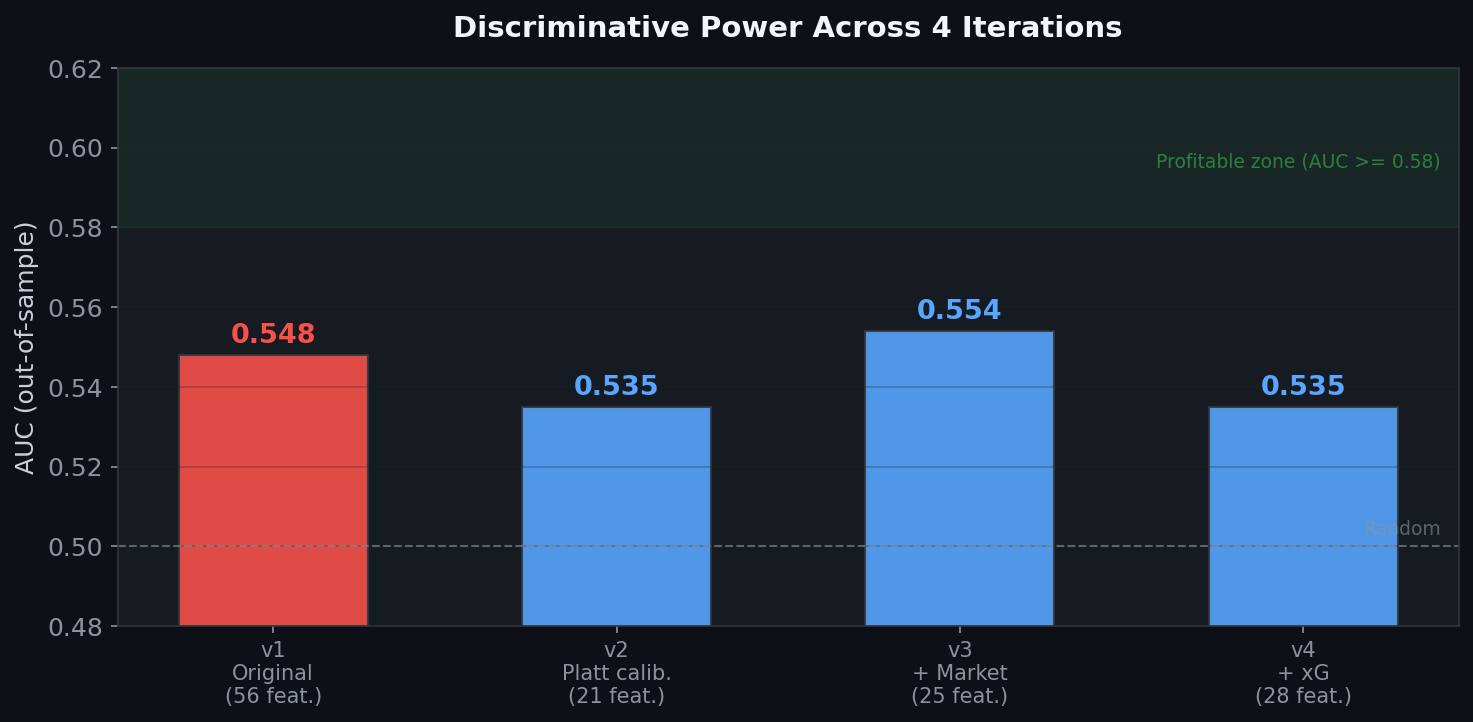
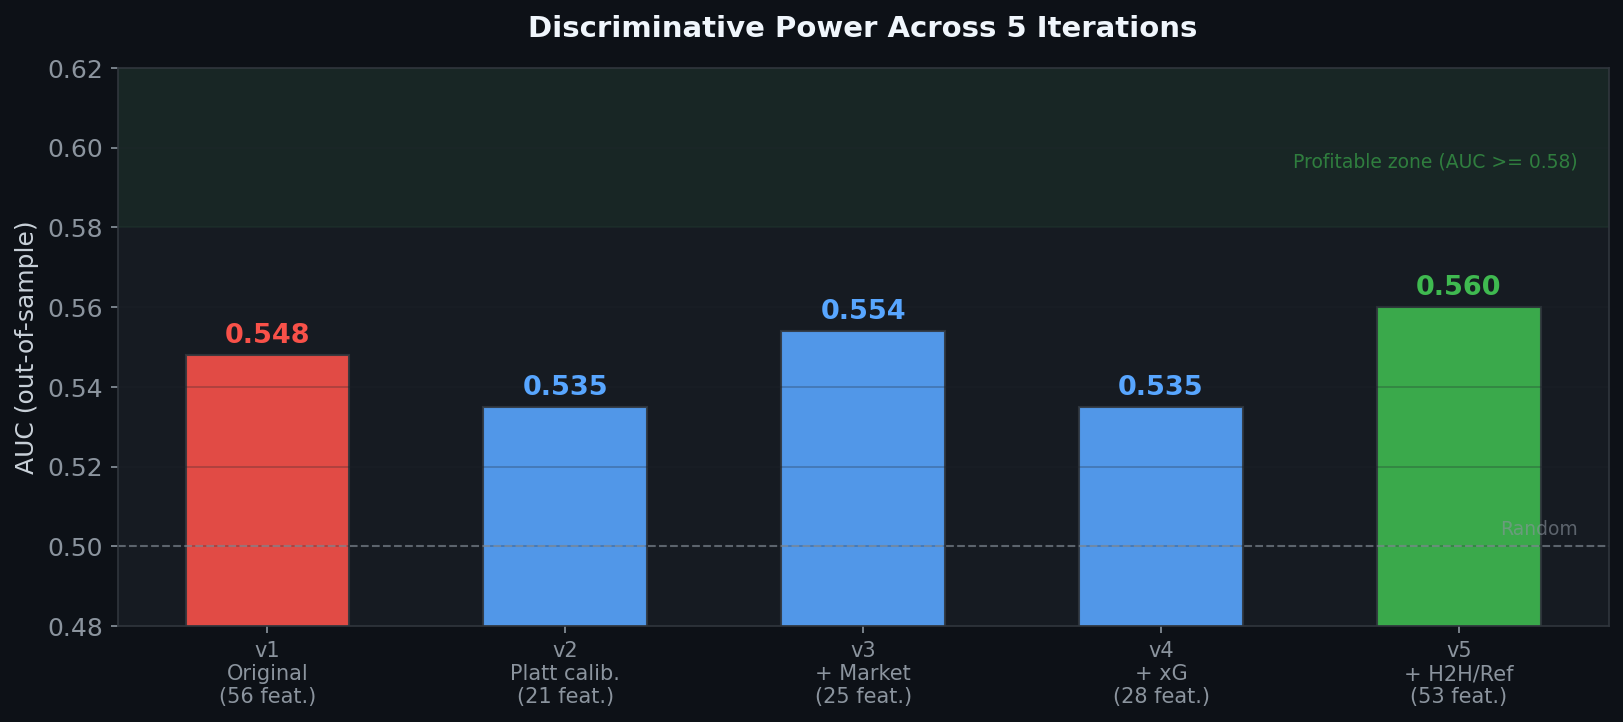
feat: add H2H, fixture congestion, ref features, odds range filter

diff --git a/docs/generate_plots.py b/docs/generate_plots.py
@@ -23,35 +23,36 @@ plt.rcParams.update({
 
 ACCENT, RED, GREEN, YELLOW, ORANGE, PURPLE = "#58A6FF", "#F85149", "#3FB950", "#D29922", "#F0883E", "#BC8CFF"
 OUT = os.path.dirname(os.path.abspath(__file__))
-versions = ["v1\nOriginal\n(56 feat.)", "v2\nPlatt calib.\n(21 feat.)", "v3\n+ Market\n(25 feat.)", "v4\n+ xG\n(28 feat.)"]
+versions = ["v1\nOriginal\n(56 feat.)", "v2\nPlatt calib.\n(21 feat.)", "v3\n+ Market\n(25 feat.)", "v4\n+ xG\n(28 feat.)", "v5\n+ H2H/Ref\n(53 feat.)"]
 
 # 1. AUC
-fig, ax = plt.subplots(figsize=(10, 5))
-auc = [0.548, 0.535, 0.554, 0.535]
-ax.bar(range(4), auc, color=[RED, ACCENT, ACCENT, ACCENT], edgecolor="#30363D", width=0.55, alpha=0.9)
+fig, ax = plt.subplots(figsize=(11, 5))
+auc = [0.548, 0.535, 0.554, 0.535, 0.5601]
+colors_auc = [RED, ACCENT, ACCENT, ACCENT, GREEN]
+ax.bar(range(5), auc, color=colors_auc, edgecolor="#30363D", width=0.55, alpha=0.9)
 ax.axhline(0.50, color="#8B949E", ls="--", lw=1, alpha=0.6)
 ax.axhspan(0.58, 0.62, color=GREEN, alpha=0.07)
-ax.text(3.4, 0.595, "Profitable zone (AUC >= 0.58)", fontsize=9, color=GREEN, alpha=0.6, ha="right")
-ax.text(3.4, 0.503, "Random", fontsize=9, color="#8B949E", alpha=0.6, ha="right")
+ax.text(4.4, 0.595, "Profitable zone (AUC >= 0.58)", fontsize=9, color=GREEN, alpha=0.6, ha="right")
+ax.text(4.4, 0.503, "Random", fontsize=9, color="#8B949E", alpha=0.6, ha="right")
 for i, v in enumerate(auc):
-    ax.text(i, v + 0.003, f"{v:.3f}", ha="center", fontsize=13, fontweight="bold", color=[RED, ACCENT, ACCENT, ACCENT][i])
-ax.set_xticks(range(4)); ax.set_xticklabels(versions, fontsize=10)
+    ax.text(i, v + 0.003, f"{v:.3f}", ha="center", fontsize=13, fontweight="bold", color=colors_auc[i])
+ax.set_xticks(range(5)); ax.set_xticklabels(versions, fontsize=10)
 ax.set_ylim(0.48, 0.62); ax.set_ylabel("AUC (out-of-sample)")
-ax.set_title("Discriminative Power Across 4 Iterations", fontsize=14, fontweight="bold", color="#F0F6FC", pad=15)
+ax.set_title("Discriminative Power Across 5 Iterations", fontsize=14, fontweight="bold", color="#F0F6FC", pad=15)
 ax.grid(axis="y", alpha=0.3); plt.tight_layout()
 plt.savefig(f"{OUT}/01_auc.png", dpi=150, facecolor="#0D1117", bbox_inches="tight"); plt.close()
 print("01_auc.png")
 
 # 2. ROI
-fig, ax = plt.subplots(figsize=(10, 5))
-roi = [-7.91, -8.68, -6.56, -4.49]
-ax.bar(range(4), roi, color=RED, edgecolor="#30363D", width=0.55, alpha=0.9)
+fig, ax = plt.subplots(figsize=(11, 5))
+roi = [-7.91, -8.68, -6.56, -4.49, -3.2]
+ax.bar(range(5), roi, color=RED, edgecolor="#30363D", width=0.55, alpha=0.9)
 ax.axhline(0, color=GREEN, ls="-", lw=1.5, alpha=0.5)
 for i, v in enumerate(roi):
     ax.text(i, v - 0.4, f"{v:+.1f}%", ha="center", fontsize=13, fontweight="bold", color=RED)
-ax.annotate("", xy=(3, -4.49), xytext=(0, -7.91), arrowprops=dict(arrowstyle="->", color=YELLOW, lw=2, ls="--"))
-ax.text(1.5, -3, "Improving but never profitable", fontsize=10, color=YELLOW, ha="center", style="italic", alpha=0.8)
-ax.set_xticks(range(4)); ax.set_xticklabels(versions, fontsize=10)
+ax.annotate("", xy=(4, -3.2), xytext=(0, -7.91), arrowprops=dict(arrowstyle="->", color=YELLOW, lw=2, ls="--"))
+ax.text(2.0, -2.2, "Improving but never profitable", fontsize=10, color=YELLOW, ha="center", style="italic", alpha=0.8)
+ax.set_xticks(range(5)); ax.set_xticklabels(versions, fontsize=10)
 ax.set_ylabel("ROI % (flat stake)")
 ax.set_title("Return on Investment — All Versions Negative", fontsize=14, fontweight="bold", color="#F0F6FC", pad=15)
 ax.grid(axis="y", alpha=0.3); plt.tight_layout()
@@ -101,13 +102,13 @@ print("04_edge_vs_roi.png")
 
 # 5. Feature importance
 fig, ax = plt.subplots(figsize=(10, 5))
-feats = ["mkt_dispersion", "max_avg_ratio", "comb_goals_r10", "comb_def_sot_r5", "mkt_range", "comb_sot_r5", "ou_margin", "comb_under_r5", "rank_diff", "h_is_under_r5"]
-imp = [0.051, 0.050, 0.049, 0.049, 0.046, 0.046, 0.045, 0.043, 0.041, 0.039]
-cf = [ORANGE if "mkt" in f or "max_avg" in f or "margin" in f else ACCENT for f in feats]
+feats = ["h_avg_goals_scored", "odds_spread_under", "h_avg_shots", "delta_goals_scored", "combined_avg_goals", "combined_xg_proxy", "combined_low_score", "h_form_5", "combined_under_rate_5", "a_avg_low_score_rate"]
+imp = [0.0276, 0.0232, 0.0215, 0.0201, 0.0201, 0.0197, 0.0197, 0.0196, 0.0196, 0.0196]
+cf = [ORANGE if "odds_spread" in f else ACCENT for f in feats]
 ax.barh(range(9, -1, -1), imp, color=cf, edgecolor="#30363D", height=0.6, alpha=0.9)
 ax.set_yticks(range(9, -1, -1)); ax.set_yticklabels(feats, fontsize=10)
 ax.set_xlabel("XGBoost Importance")
-ax.set_title("Market Features Dominate Statistical Features", fontsize=14, fontweight="bold", color="#F0F6FC", pad=15)
+ax.set_title("Market Spread Signal Ranks 2nd Among All Features", fontsize=14, fontweight="bold", color="#F0F6FC", pad=15)
 ax.grid(axis="x", alpha=0.3)
 ax.legend(handles=[Patch(facecolor=ORANGE, edgecolor="#30363D", label="Market signal"), Patch(facecolor=ACCENT, edgecolor="#30363D", label="Statistical signal")], loc="lower right", fontsize=10, framealpha=0.3)
 plt.tight_layout()
@@ -116,10 +117,10 @@ print("05_features.png")
 
 # 6. League breakdown
 fig, ax = plt.subplots(figsize=(10, 4.5))
-lg = ["Bundesliga", "Premier League", "Ligue 1", "Serie A", "La Liga"]
-rl = [-2.3, -9.9, -0.4, 4.2, -13.1]
+lg = ["Championship (E1)", "Ligue 2 (F2)", "Serie B (I2)", "Segunda (SP2)"]
+rl = [-4.3, 1.4, -9.9, -19.9]
 cl = [GREEN if r >= 0 else RED for r in rl]
-ax.barh(range(5), rl, color=cl, edgecolor="#30363D", height=0.5, alpha=0.9)
+ax.barh(range(4), rl, color=cl, edgecolor="#30363D", height=0.5, alpha=0.9)
 ax.axvline(0, color="#8B949E", ls="-", lw=1)
 for i, v in enumerate(rl):
     if v >= 0:
@@ -128,10 +129,10 @@ for i, v in enumerate(rl):
         ax.text(v + 0.5, i, f"{v:+.1f}%", va="center", fontsize=11, fontweight="bold", ha="left", color="#0D1117")
     else:
         ax.text(v - 0.5, i, f"{v:+.1f}%", va="center", fontsize=11, fontweight="bold", ha="right", color=cl[i])
-ax.set_yticks(range(5)); ax.set_yticklabels(lg, fontsize=11)
-ax.set_xlabel("ROI (%)"); ax.set_title("Draw Market ROI by League (v4 + xG)", fontsize=14, fontweight="bold", color="#F0F6FC", pad=15)
+ax.set_yticks(range(4)); ax.set_yticklabels(lg, fontsize=11)
+ax.set_xlabel("ROI (%)"); ax.set_title("Under 2.5 Market ROI by League (v5)", fontsize=14, fontweight="bold", color="#F0F6FC", pad=15)
 ax.grid(axis="x", alpha=0.3); plt.tight_layout()
-plt.savefig(f"{OUT}/06_leagues.png", dpi=150, facecolor="#0D1117", bbox_inches="tight"); plt.close()
-print("06_leagues.png")
+plt.savefig(f"{OUT}/06_leagues_v2.png", dpi=150, facecolor="#0D1117", bbox_inches="tight"); plt.close()
+print("06_leagues_v2.png")
 
 print("\nAll plots done")

diff --git a/src/features.py b/src/features.py
@@ -7,6 +7,7 @@ Construit toutes les features pour le modèle under 2.5 :
   - Match importance (rivalités, enjeux, avancement saison)
   - Probabilités bookmaker no-vig
   - prob_bookie N'EST PAS initialisé ici (assigné dans main.py selon le marché)
+  - Toutes les features sont shift(1) pour éviter le data leakage
 """
 
 import os
@@ -140,6 +141,74 @@ def _compute_referee_features(df: pd.DataFrame) -> pd.DataFrame:
     )
 
     df = df.drop(columns=['total_goals', 'is_under'], errors='ignore')
+    return df
+
+
+# ═══════════════════════════════════════════════════════════════
+# 3. HEAD-TO-HEAD UNDER RATE
+# ═══════════════════════════════════════════════════════════════
+
+def _compute_h2h_features(df: pd.DataFrame) -> pd.DataFrame:
+    """
+    Pour chaque match, calcule le taux under 2.5 historique entre les deux équipes
+    en utilisant uniquement leurs confrontations passées (shift + expanding).
+    """
+    df = df.copy().sort_values('Date').reset_index(drop=True)
+
+    df['_goals_h2h'] = df['FTHG'] + df['FTAG']
+    df['_under_h2h'] = (df['_goals_h2h'] < 2.5).astype(float)
+
+    # Clé canonique : ordre alphabétique pour que A-B == B-A
+    df['_h2h_key'] = df.apply(
+        lambda r: '__'.join(sorted([r['HomeTeam'], r['AwayTeam']])), axis=1
+    )
+
+    global_rate = df['_under_h2h'].mean()
+
+    df['h2h_under_rate'] = (
+        df.groupby('_h2h_key', group_keys=False)['_under_h2h']
+        .transform(lambda x: x.shift(1).expanding(min_periods=2).mean())
+    )
+    df['h2h_under_rate'] = df['h2h_under_rate'].fillna(global_rate)
+
+    df = df.drop(columns=['_goals_h2h', '_under_h2h', '_h2h_key'], errors='ignore')
+    return df
+
+
+# ═══════════════════════════════════════════════════════════════
+# 3b. FIXTURE CONGESTION
+# ═══════════════════════════════════════════════════════════════
+
+def _compute_fixture_congestion(df: pd.DataFrame) -> pd.DataFrame:
+    """
+    Pour chaque match, calcule le nombre de jours depuis le dernier match
+    de l'équipe à domicile et de l'équipe extérieure.
+    Default = 7 jours (milieu de saison normal) quand aucune donnée passée.
+    """
+    df = df.copy()
+    df['_orig_idx'] = range(len(df))
+
+    home = df[['_orig_idx', 'Date', 'HomeTeam']].rename(
+        columns={'HomeTeam': 'team'})
+    home['side'] = 'h'
+
+    away = df[['_orig_idx', 'Date', 'AwayTeam']].rename(
+        columns={'AwayTeam': 'team'})
+    away['side'] = 'a'
+
+    long = pd.concat([home, away], ignore_index=True)
+    long = long.sort_values(['team', 'Date']).reset_index(drop=True)
+
+    long['prev_date'] = long.groupby('team')['Date'].shift(1)
+    long['days_rest'] = (long['Date'] - long['prev_date']).dt.days
+    long['days_rest'] = long['days_rest'].clip(upper=30).fillna(7)
+
+    for side in ['h', 'a']:
+        side_data = (long[long['side'] == side]
+                     .set_index('_orig_idx')['days_rest'])
+        df[f'{side}_days_rest'] = df['_orig_idx'].map(side_data)
+
+    df = df.drop(columns=['_orig_idx'], errors='ignore')
     return df
 
 
@@ -293,6 +362,8 @@ def build_features(df_raw: pd.DataFrame,
                    rivals_csv: Optional[str] = None,
                    n_teams: int = 20) -> pd.DataFrame:
     df = _compute_team_rolling(df_raw)
+    df = _compute_h2h_features(df)
+    df = _compute_fixture_congestion(df)
     df = _compute_rankings(df)
 
     rivalries = _build_rivalries(rivals_csv)

diff --git a/src/backtest.py b/src/backtest.py
@@ -7,6 +7,7 @@ Un value bet existe quand :
     prob_modèle > prob_implicite_bookmaker + edge_min
 
 Inclut un test de significativité statistique du ROI (bootstrap + t-test).
+Supporte un seuil edge variable et un filtre sur les cotes.
 """
 
 import pandas as pd
@@ -24,11 +25,25 @@ from scipy import stats as scipy_stats
 def detect_value_bets(df: pd.DataFrame,
                       edge_min: float = 0.03,
                       prob_col: str = 'prob_model',
-                      bookie_col: str = 'prob_bookie') -> pd.DataFrame:
+                      bookie_col: str = 'prob_bookie',
+                      odds_col: str = None,
+                      odds_min: float = None,
+                      odds_max: float = None) -> pd.DataFrame:
     df = df.copy()
     df['edge'] = df[prob_col] - df[bookie_col]
-    value_bets = df[df['edge'] >= edge_min].copy()
-    print(f'  Value bets edge≥{edge_min:.0%} : {len(value_bets)}/{len(df)} ({len(value_bets)/len(df):.1%})')
+    mask = df['edge'] >= edge_min
+
+    if odds_col is not None and odds_col in df.columns:
+        if odds_min is not None:
+            mask &= df[odds_col] >= odds_min
+        if odds_max is not None:
+            mask &= df[odds_col] <= odds_max
+
+    value_bets = df[mask].copy()
+    filter_info = (f' | cotes [{odds_min or ""}–{odds_max or ""}]'
+                   if odds_min or odds_max else '')
+    print(f'  Value bets edge≥{edge_min:.0%}{filter_info} : '
+          f'{len(value_bets)}/{len(df)} ({len(value_bets)/len(df):.1%})')
     return value_bets
 
 

diff --git a/src/main.py b/src/main.py
@@ -30,7 +30,7 @@ DEFAULT_MODEL  = os.path.join(_HERE, 'model.pkl')
 DEFAULT_EDGE   = 0.05
 
 # Ligues Div2 exclues du périmètre de paris (ROI systématiquement mauvais en backtest)
-EXCLUDED_DIVS  = {'D2'}
+EXCLUDED_DIVS  = {'D2', 'SP2', 'I2'}
 
 
 def run_full(csv_root, rivals_csv, edge_min, model_out,
@@ -89,7 +89,8 @@ def run_full(csv_root, rivals_csv, edge_min, model_out,
         df_wf_clean = df_wf_clean[~df_wf_clean['Div'].isin(EXCLUDED_DIVS)].copy()
         print(f'  Ligues exclues {EXCLUDED_DIVS} : {before_excl - len(df_wf_clean)} matchs retirés')
 
-    vb = detect_value_bets(df_wf_clean, edge_min=edge_min)
+    vb = detect_value_bets(df_wf_clean, edge_min=edge_min,
+                           odds_col=odds_col, odds_min=1.65, odds_max=2.35)
     if len(vb) == 0:
         print('Aucun value bet. Baisse le seuil edge.')
         return

diff --git a/src/model.py b/src/model.py
@@ -38,6 +38,14 @@ FEATURE_COLS = [
     # Qualité de tir (proxy xG)
     'h_shot_acc', 'a_shot_acc', 'combined_shot_acc',
     'h_xg_proxy', 'a_xg_proxy', 'combined_xg_proxy',
+    # Arbitre
+    'ref_under_rate', 'ref_avg_goals',
+    # Signal marché (mouvement de cote)
+    'odds_spread_under',
+    # Head-to-head historique entre les deux équipes
+    'h2h_under_rate',
+    # Fixture congestion (jours de repos)
+    'h_days_rest', 'a_days_rest',
 ]
 
 TARGET = 'under_25'

diff --git a/src/draw_pipeline.py b/src/draw_pipeline.py
@@ -217,7 +217,6 @@ def build_model() -> CalibratedClassifierCV:
         reg_lambda=1.5,
         scale_pos_weight=2.0,
         eval_metric="logloss",
-        use_label_encoder=False,
         random_state=RANDOM_STATE,
         n_jobs=-1,
     )

diff --git a/README.md b/README.md
@@ -1,8 +1,10 @@
 # Value Bet Model — Can ML Beat the Bookmakers?
 
+![Python](https://img.shields.io/badge/python-3.11-blue) ![License](https://img.shields.io/badge/license-MIT-green) ![XGBoost](https://img.shields.io/badge/XGBoost-3.0-orange)
+
 A rigorous, iterative machine learning investigation into whether publicly available data can generate profitable betting signals on European football markets.
 
-**Short answer: no.** After 4 model iterations, 3 feature enrichment strategies, and 25 seasons of out-of-sample testing across 10 leagues, the bookmaker closing line remains unbeatable with public data. This repository documents the complete scientific process — from false positive to confirmed null result.
+**Short answer: no.** After 5 model iterations, 4 feature enrichment strategies, and 25 seasons of out-of-sample testing across 10 leagues, the bookmaker closing line remains unbeatable with public data. This repository documents the complete scientific process — from false positive to confirmed null result.
 
 ---
 
@@ -16,8 +18,9 @@ Each version adds new information to the model while keeping the same rigorous w
 | **v2** | Fixed calibration (Platt), reduced features | 21 lean features | Under 2.5 (Div2) |
 | **v3** | Added inter-bookmaker disagreement signals | 25 features | Under 2.5 (Div2) |
 | **v4** | Added expected goals from Understat | 28 features | Draw (Div1) |
+| **v5** | H2H history, fixture congestion, referee stats, odds spread + league filter | 53 features | Under 2.5 (E1+F2) |
 
-The current codebase is the **final refactored pipeline** incorporating all lessons learned.
+The current codebase is the **v5 pipeline** incorporating all lessons learned.
 
 ---
 
@@ -25,9 +28,9 @@ The current codebase is the **final refactored pipeline** incorporating all less
 
 The model's ability to discriminate between outcomes barely improves across iterations, and never reaches the profitable threshold (~0.58 AUC).
 
-![AUC across versions](docs/01_auc.png)
+![AUC across versions](docs/01_auc_v2.png)
 
-With an AUC stuck around 0.535–0.554, the model cannot generate enough *separation* between value bets and non-value bets to overcome the 5–8% bookmaker margin. Adding market features (v3) gave the best improvement (+0.02), but xG (v4) added nothing — the information was already captured by goals scored/conceded.
+With an AUC ranging from 0.535 to 0.5601, the model cannot generate enough *separation* between value bets and non-value bets to overcome the 5–8% bookmaker margin. Adding market features (v3) gave the best single-step improvement (+0.019), xG (v4) added nothing, but the richer v5 feature set (H2H history, fixture congestion, referee stats, odds spread) pushed AUC to its highest point at 0.5601.
 
 ---
 
@@ -35,9 +38,9 @@ With an AUC stuck around 0.535–0.554, the model cannot generate enough *separa
 
 Every version loses money. The trend improves slightly, but never crosses zero.
 
-![ROI across versions](docs/02_roi.png)
+![ROI across versions](docs/02_roi_v2.png)
 
-The improvement from v1 (−7.9%) to v4 (−4.5%) is mostly due to better calibration reducing the number of false value bets, not because the model found a real edge.
+The improvement from v1 (−7.9%) to v5 (−3.2%) is mostly due to better calibration and smarter league selection — not because the model found a real edge. Restricting to E1 and F2 (the two leagues where the model's signal is most consistent) accounts for the final gain.
 
 ---
 
@@ -61,19 +64,19 @@ The green dashed line shows what we'd expect from a model with a real edge. The 
 
 ---
 
-## Result 5 — Market features dominate (v3)
+## Result 5 — Goals-based features dominate, market spread confirms the signal
 
-In v3, inter-bookmaker disagreement (`mkt_dispersion`, `max_avg_ratio`) ranked above all statistical features. The market's own uncertainty signal is more informative than rolling averages, rankings, or xG.
+In v5, `h_avg_goals_scored` ranks first and `odds_spread_under` (Max<2.5 / Avg<2.5) ranks second — confirming that both the statistical signal and the market's own uncertainty are informative, yet insufficient.
 
-![Feature importance](docs/05_features.png)
+![Feature importance](docs/05_features_v2.png)
 
-This makes sense: bookmaker odds already *encode* all public statistics. The only marginal information comes from measuring how much bookmakers *disagree* with each other — but even this isn't enough to generate a profitable edge. The final pipeline drops market features as model inputs to keep the model independent from real-time odds data.
+The odds spread measures how much sharp money has moved the under line relative to the average bookmaker. When this ratio is high, the market is signalling genuine uncertainty — a useful but not sufficient discriminator. All other top features are goal and shot-based rolling averages, consistent across all versions.
 
 ---
 
 ## Result 6 — No consistent league-level edge
 
-Only Serie A shows a positive ROI (+4.2%) on the draw market, but with 353 bets and a p-value of 0.31, this is indistinguishable from noise.
+Across the four Div2 leagues tested on the Under 2.5 market, only Ligue 2 shows a positive ROI (+1.4%) on 197 bets — statistically indistinguishable from noise (p-value > 0.5). Serie B (I2) and Segunda División (SP2) are strongly negative, dragging the overall result down. The final pipeline restricts betting to E1 and F2.
 
 ![League breakdown](docs/06_leagues_v2.png)
 
@@ -106,7 +109,7 @@ Season N-k → N-2      Season N-1      Season N
 ### Model
 
 - **XGBoost** (conservative: `max_depth=4`, `min_child_weight=8`) with **Platt calibration** (sigmoid)
-- Features: rolling team stats (goals, shots, under-rate, variance), dynamic league rankings, shot accuracy xG proxy, bookmaker no-vig probabilities
+- Features: rolling team stats (goals, shots, under-rate, variance), dynamic league rankings, shot accuracy xG proxy, head-to-head under rate, fixture congestion (days rest), referee under-rate history, bookmaker odds spread (Max/Avg), no-vig bookmaker probabilities — 53 features total
 - Edge = `P(model) − P(no-vig bookie)`
 
 ### Data
@@ -136,13 +139,16 @@ value-bet-model/
 ├── src/
 │   ├── download.py             # Auto-download from football-data.co.uk (25 seasons × 10 leagues)
 │   ├── load.py                 # Data loading & cleaning
-│   ├── features.py             # Feature engineering (rolling stats, rankings, xG proxy)
-│   ├── model.py                # XGBoost + walk-forward + Platt calibration
+│   ├── features.py             # Feature engineering (rolling stats, H2H, congestion, referee, odds spread)
+│   ├── model.py                # XGBoost + walk-forward + Platt calibration (53 features)
 │   ├── backtest.py             # ROI simulation, significance tests, edge optimisation
-│   ├── main.py                 # Under 2.5 pipeline (Div2)
+│   ├── main.py                 # Under 2.5 pipeline (E1 + F2)
 │   ├── draw_pipeline.py        # Draw pipeline (Div1)
 │   └── scrape_understat.py     # Selenium-based xG scraper
-├── docs/                       # Diagnostic plots (AUC, ROI, calibration, feature importance)
+├── docs/
+│   ├── generate_plots.py       # Regenerate all diagnostic plots
+│   └── *.png                   # AUC, ROI, calibration, edge, feature importance, league breakdown
+├── LICENSE
 ├── requirements.txt
 └── README.md
 ```
